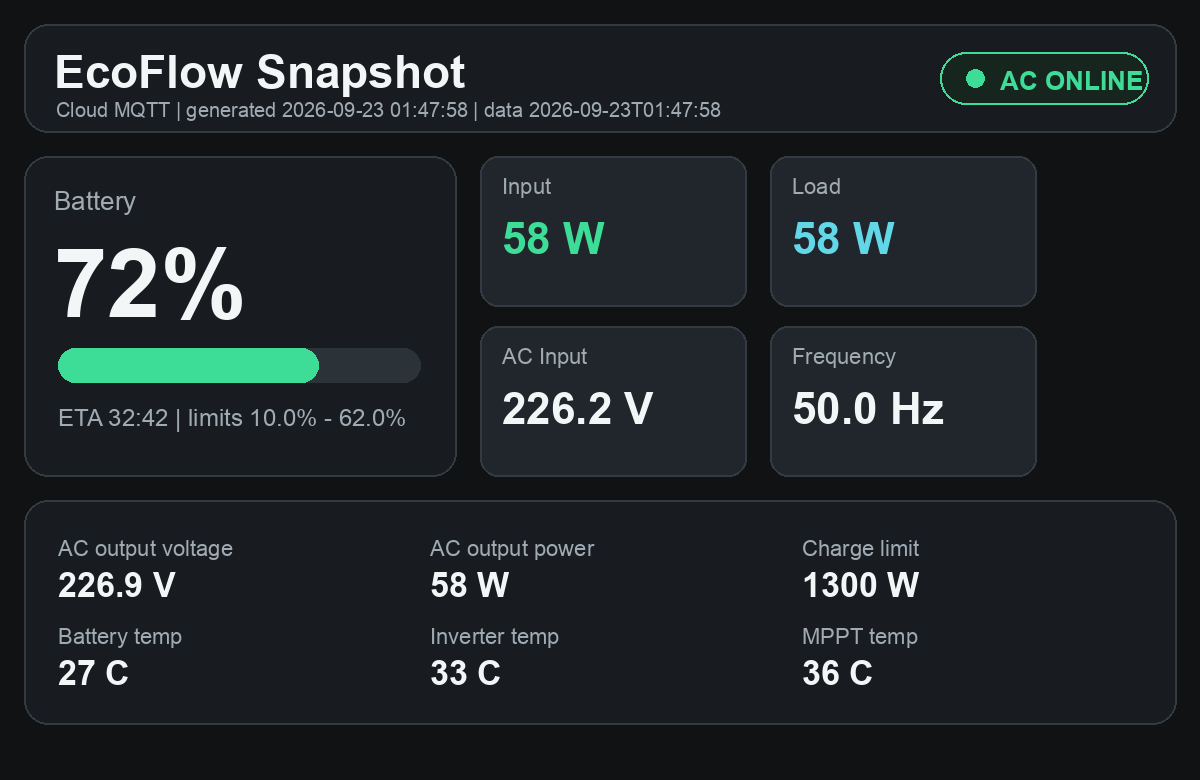
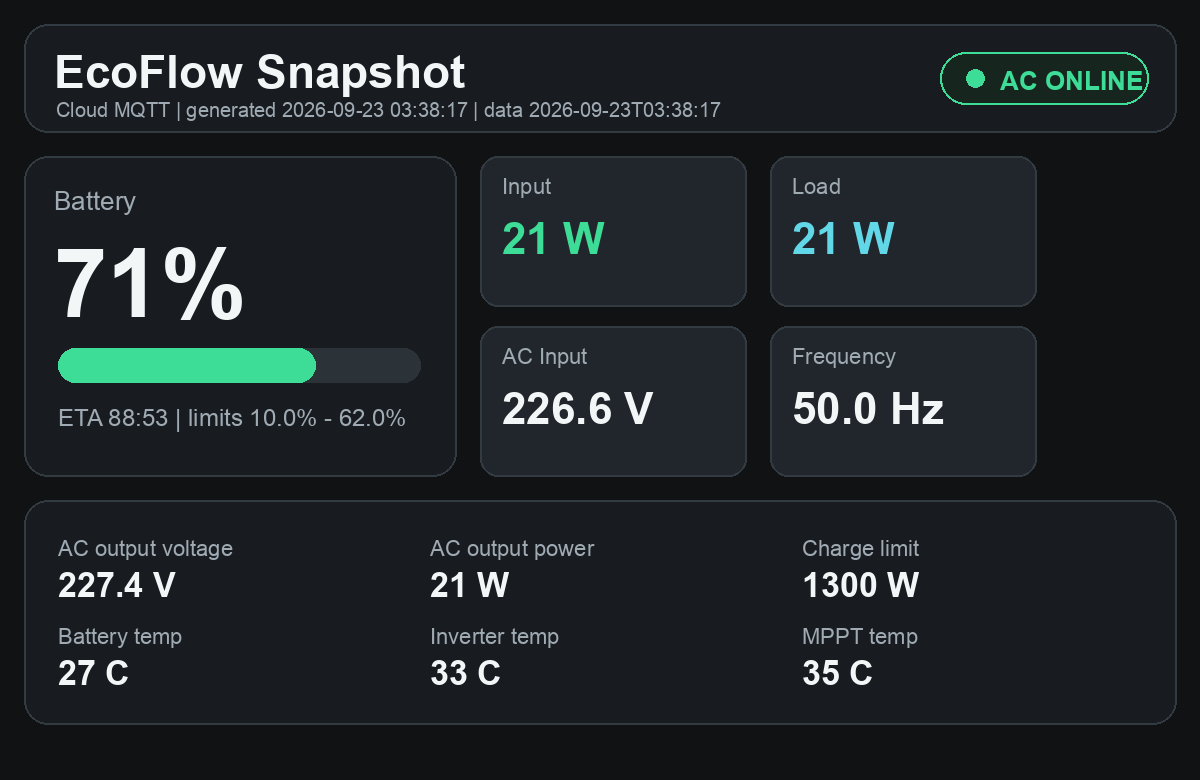
Update EcoFlow dashboard 2026-09-23 03:38:17

diff --git a/index.html b/index.html
@@ -75,7 +75,7 @@
       overflow: hidden;
       margin-top: 14px;
     }
-    .fill { width: 72%; height: 100%; background: linear-gradient(90deg, var(--green), var(--cyan)); }
+    .fill { width: 71%; height: 100%; background: linear-gradient(90deg, var(--green), var(--cyan)); }
     .cards {
       display: grid;
       grid-template-columns: repeat(4, minmax(0, 1fr));
@@ -177,7 +177,7 @@
   <header>
     <div>
       <h1>EcoFlow Snapshot</h1>
-      <div class="sub">Cloud MQTT · generated 2026-09-23T01:47:58 · data 2026-09-23T01:47:58</div>
+      <div class="sub">Cloud MQTT · generated 2026-09-23T03:38:17 · data 2026-09-23T03:38:17</div>
     </div>
     <div class="status online"><span class="dot"></span><span>AC online</span></div>
   </header>
@@ -187,22 +187,22 @@
   <div class="grid">
     <section>
       <h2>Battery</h2>
-      <div class="value">72%</div>
+      <div class="value">71%</div>
       <div class="battery"><div class="fill"></div></div>
-      <div class="row"><span>ETA</span><span>32:42</span></div>
+      <div class="row"><span>ETA</span><span>88:53</span></div>
       <div class="row"><span>SOC limits</span><span>10.0% - 62.0%</span></div>
     </section>
     <section>
       <h2>AC</h2>
-      <div class="row"><span>Input voltage</span><span>226.2 V</span></div>
+      <div class="row"><span>Input voltage</span><span>226.6 V</span></div>
       <div class="row"><span>Input frequency</span><span>50.0 Hz</span></div>
-      <div class="row"><span>Output voltage</span><span>226.9 V</span></div>
+      <div class="row"><span>Output voltage</span><span>227.4 V</span></div>
     </section>
   </div>
 
   <div class="cards">
-    <div class="card"><span class="label">Input</span><span class="value">58 W</span></div>
-    <div class="card"><span class="label">Load</span><span class="value">58 W</span></div>
+    <div class="card"><span class="label">Input</span><span class="value">21 W</span></div>
+    <div class="card"><span class="label">Load</span><span class="value">21 W</span></div>
     <div class="card"><span class="label">Battery temp</span><span class="value">27°C</span></div>
     <div class="card"><span class="label">Inverter temp</span><span class="value">33°C</span></div>
   </div>
@@ -212,12 +212,12 @@
       <h2>Останні 24 години</h2>
       <div class="daily-grid">
         <div class="daily-item"><span class="label">Напруга min / max</span><strong>222 V / 228 V</strong><small>22.09 18:25 / 22.09 21:43</small></div>
-        <div class="daily-item"><span class="label">SOC min / max</span><strong>72% / 75%</strong><small>23.09 00:46 / 22.09 18:24</small></div>
+        <div class="daily-item"><span class="label">SOC min / max</span><strong>71% / 75%</strong><small>23.09 03:38 / 22.09 18:24</small></div>
         <div class="daily-item"><span class="label">Пік навантаження</span><strong>62 W</strong><small>22.09 23:34</small></div>
         <div class="daily-item"><span class="label">Зарядний ліміт</span><strong>1300 W</strong><small>пік входу 62 W · 5% ліміту</small></div>
         <div class="daily-item"><span class="label">Заряджання</span><strong>0 сек</strong><small>--</small></div>
         <div class="daily-item"><span class="label">Розряджання</span><strong>0 сек</strong><small>--</small></div>
-        <div class="daily-item"><span class="label">Енергія вхід / вихід</span><strong>34 Wh / 34 Wh</strong><small>оцінка за sample-ами</small></div>
+        <div class="daily-item"><span class="label">Енергія вхід / вихід</span><strong>37 Wh / 37 Wh</strong><small>оцінка за sample-ами</small></div>
         <div class="daily-item"><span class="label">Частота min / max</span><strong>50.0 Hz / 50.0 Hz</strong><small>22.09 18:24 / 22.09 18:24</small></div>
       </div>
     </section>
@@ -241,29 +241,29 @@
   &quot;ok&quot;: true,
   &quot;source&quot;: &quot;Cloud MQTT&quot;,
   &quot;device&quot;: &quot;DELTA Pro&quot;,
-  &quot;timestamp&quot;: &quot;2026-09-23T01:47:58&quot;,
+  &quot;timestamp&quot;: &quot;2026-09-23T03:38:17&quot;,
   &quot;grid&quot;: true,
   &quot;battery&quot;: {
-    &quot;soc&quot;: 72,
+    &quot;soc&quot;: 71,
     &quot;min&quot;: 10.0,
     &quot;max&quot;: 62.0,
-    &quot;eta&quot;: &quot;32:42&quot;
+    &quot;eta&quot;: &quot;88:53&quot;
   },
   &quot;power&quot;: {
-    &quot;in&quot;: 58,
-    &quot;out&quot;: 58,
-    &quot;acOut&quot;: 58,
+    &quot;in&quot;: 21,
+    &quot;out&quot;: 21,
+    &quot;acOut&quot;: 21,
     &quot;chargeLimit&quot;: 1300
   },
   &quot;ac&quot;: {
-    &quot;inputVoltage&quot;: 226.164,
+    &quot;inputVoltage&quot;: 226.614,
     &quot;inputFreq&quot;: 50.0,
-    &quot;outputVoltage&quot;: 226.924
+    &quot;outputVoltage&quot;: 227.402
   },
   &quot;temps&quot;: {
     &quot;battery&quot;: 27,
     &quot;inverter&quot;: 33,
-    &quot;mppt&quot;: 36
+    &quot;mppt&quot;: 35
   },
   &quot;history&quot;: [
     {
@@ -307,16 +307,16 @@
   ],
   &quot;telemetry&quot;: {
     &quot;window&quot;: &quot;24h&quot;,
-    &quot;sample_count&quot;: 24,
+    &quot;sample_count&quot;: 25,
     &quot;from&quot;: &quot;2026-09-22T18:24:44&quot;,
-    &quot;to&quot;: &quot;2026-09-23T01:47:58&quot;,
+    &quot;to&quot;: &quot;2026-09-23T03:38:17&quot;,
     &quot;latest&quot;: {
       &quot;mode&quot;: &quot;idle&quot;,
       &quot;grid&quot;: true,
-      &quot;soc&quot;: 72.0,
-      &quot;ac_v&quot;: 226.164,
-      &quot;in_w&quot;: 58.0,
-      &quot;out_w&quot;: 58.0,
+      &quot;soc&quot;: 71.0,
+      &quot;ac_v&quot;: 226.614,
+      &quot;in_w&quot;: 21.0,
+      &quot;out_w&quot;: 21.0,
       &quot;charge_limit_w&quot;: 1300.0
     },
     &quot;voltage&quot;: {
@@ -339,8 +339,8 @@
     },
     &quot;soc&quot;: {
       &quot;min&quot;: {
-        &quot;value&quot;: 72.0,
-        &quot;ts&quot;: &quot;2026-09-23T00:46:51&quot;
+        &quot;value&quot;: 71.0,
+        &quot;ts&quot;: &quot;2026-09-23T03:38:17&quot;
       },
       &quot;max&quot;: {
         &quot;value&quot;: 75.0,
@@ -362,16 +362,16 @@
       },
       &quot;charge_limit_w&quot;: 1300.0,
       &quot;max_input_pct_of_current_limit&quot;: 5,
-      &quot;input_wh_est&quot;: 34.5,
-      &quot;load_wh_est&quot;: 34.5
+      &quot;input_wh_est&quot;: 37.4,
+      &quot;load_wh_est&quot;: 37.4
     },
     &quot;modes&quot;: {
       &quot;charging_sec&quot;: 0,
       &quot;discharging_sec&quot;: 0,
-      &quot;idle_sec&quot;: 2238,
+      &quot;idle_sec&quot;: 2418,
       &quot;charging&quot;: &quot;0 сек&quot;,
       &quot;discharging&quot;: &quot;0 сек&quot;,
-      &quot;idle&quot;: &quot;37 хв&quot;,
+      &quot;idle&quot;: &quot;40 хв&quot;,
       &quot;last_charging&quot;: null,
       &quot;last_discharging&quot;: null
     }
